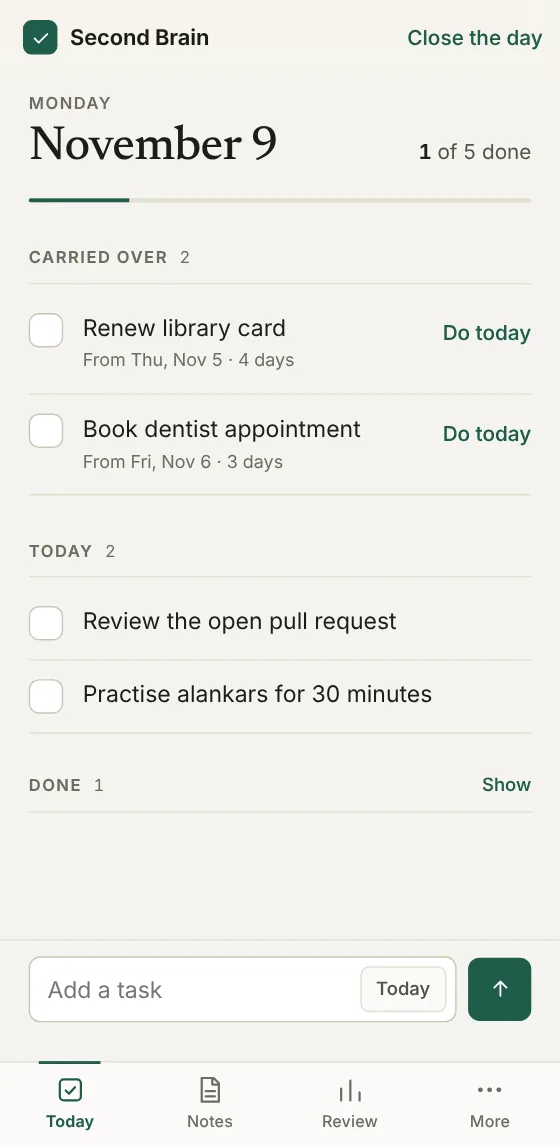
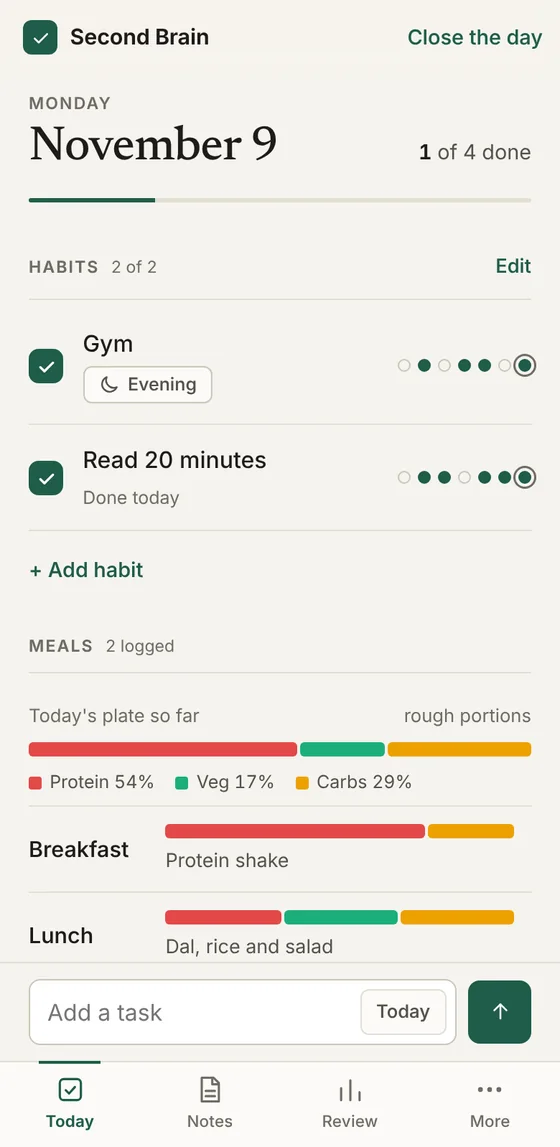
Show habits and meals on the Second Brain card (#26)
New Today and Review (Habits) screenshots in light and dark, and card text that mentions the habit tracker and meal log. The sample data in the screenshots is made up.

diff --git a/docs/index.html b/docs/index.html
@@ -139,13 +139,13 @@
 
     <article class="work flip reveal">
       <div class="shot duo">
-        <figure class="shot phone"><img class="lt" src="img/second-brain-today-light.webp" width="560" height="1147" loading="lazy" alt="Second Brain on a phone: today's to-do list, with two unfinished tasks carried over from earlier days, each showing how long it has waited"><img class="dk" src="img/second-brain-today-dark.webp" width="560" height="1147" loading="lazy" alt="Second Brain on a phone: today's to-do list, with two unfinished tasks carried over from earlier days, each showing how long it has waited"></figure>
-        <figure class="shot phone"><img class="lt" src="img/second-brain-review-light.webp" width="560" height="1147" loading="lazy" alt="Second Brain's review tab on a phone: tasks finished over the last seven days, a bar chart of what was done and left over each day, and a list of days"><img class="dk" src="img/second-brain-review-dark.webp" width="560" height="1147" loading="lazy" alt="Second Brain's review tab on a phone: tasks finished over the last seven days, a bar chart of what was done and left over each day, and a list of days"></figure>
+        <figure class="shot phone"><img class="lt" src="img/second-brain-today-light.webp" width="560" height="1147" loading="lazy" alt="Second Brain on a phone: today's habits ticked with one tap, today's plate of meals as a coloured bar split into protein, veg and carbs, and the start of the to-do list"><img class="dk" src="img/second-brain-today-dark.webp" width="560" height="1147" loading="lazy" alt="Second Brain on a phone: today's habits ticked with one tap, today's plate of meals as a coloured bar split into protein, veg and carbs, and the start of the to-do list"></figure>
+        <figure class="shot phone"><img class="lt" src="img/second-brain-habits-light.webp" width="560" height="1147" loading="lazy" alt="Second Brain's habits review on a phone: days done this month, this week against a goal, the usual time of day, and a month calendar"><img class="dk" src="img/second-brain-habits-dark.webp" width="560" height="1147" loading="lazy" alt="Second Brain's habits review on a phone: days done this month, this week against a goal, the usual time of day, and a month calendar"></figure>
       </div>
       <div>
         <p class="kind">Personal · live app</p>
         <h3>Second Brain</h3>
-        <p>A private notebook and daily to-do list. Unfinished tasks carry over until they are done, and a review tab shows how each day went. Notes are interview-style, one question at a time, adapted from frameworks like Getting Things Done and Atomic Habits, and your words are never rewritten. Everything is encrypted in the browser with AES-256-GCM before it touches storage.</p>
+        <p>A private notebook, daily to-do list, habit tracker and meal log. Unfinished tasks carry over until they are done. Tick a habit like the gym with one tap and the time of day is filled in; log a meal by tapping how much was protein, veg and carbs. A review tab shows how each day, habit and plate looked, with no streaks. Notes are interview-style, one question at a time, adapted from frameworks like Getting Things Done and Atomic Habits, and your words are never rewritten. Everything is encrypted in the browser with AES-256-GCM before it touches storage.</p>
         <ul class="tags" aria-label="Built with"><li>JavaScript</li><li>Web Crypto</li><li>PWA</li><li>Markdown</li></ul>
         <a class="go" href="https://xudipta.github.io/second-brain-app/" rel="noopener">Open the app →</a>
       </div>

diff --git a/README.md b/README.md
@@ -15,7 +15,7 @@
 ### 📌 Side projects
 - [**Mynna**](https://trip.mynna.chat): AI trip planner for Northeast India, with shared live sessions and RAG
 - [**Flute Mastery Journey**](https://xudipta.github.io/Flute-Mastery-Journey/): an offline-first bansuri practice app with a tanpura and taal player, swipeable practice cards, alankar drills, a pitch tuner and raga demos
-- [**Second Brain**](https://xudipta.github.io/second-brain-app/): an encrypted daily to-do list and notebook: unfinished tasks carry over, and the note questions come from published frameworks
+- [**Second Brain**](https://xudipta.github.io/second-brain-app/): an encrypted daily to-do list, habit tracker, meal log and notebook: unfinished tasks carry over, habits and meals take a tap or two, and the note questions are adapted from published frameworks
 - [**cookbook**](https://xudipta.github.io/cookbook/): infrastructure and AI tooling taught as phone-friendly stories, then notes and practice games; ten topics, every example tested in CI
 
 ### 🛠 Stack
